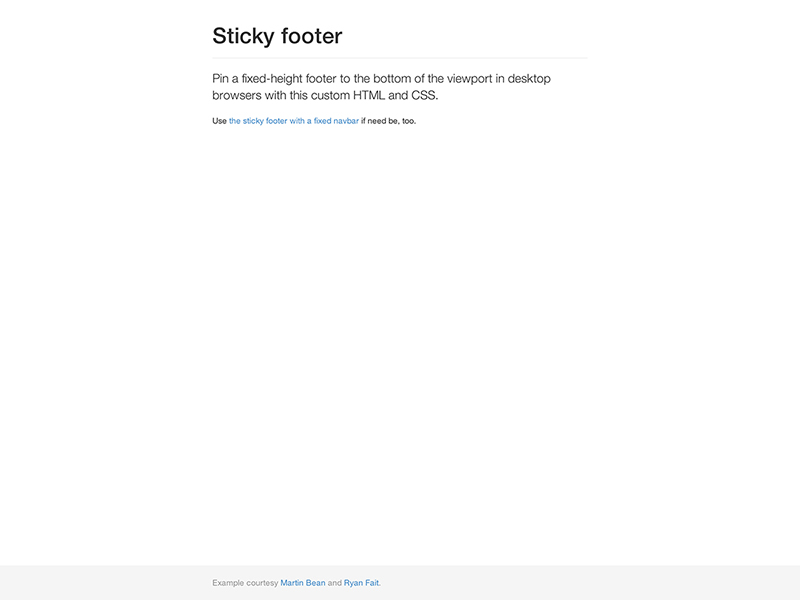
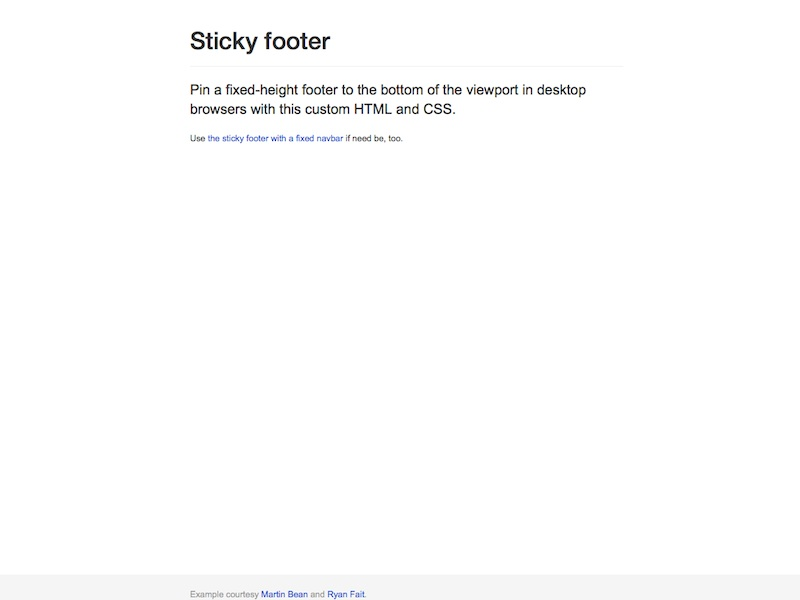
update the sticky footer example to support todc-bootstrap
#117

Changed region(s): [[0.2188, 0.12, 0.75, 0.24], [0.2188, 0.96, 0.4688, 1.0], [0.2188, 0.03, 0.4375, 0.09]]

diff --git a/examples/sticky-footer/index.html b/examples/sticky-footer/index.html
@@ -8,10 +8,13 @@
     <meta name="author" content="">
     <link rel="shortcut icon" href="../../docs-assets/ico/favicon.png">
 
-    <title>Sticky Footer Template for Bootstrap</title>
+    <title>Sticky Footer Template for TODC Bootstrap</title>
 
     <!-- Bootstrap core CSS -->
     <link href="../../dist/css/bootstrap.css" rel="stylesheet">
+
+    <!-- TODC Bootstrap core CSS -->
+    <link href="../../dist/css/todc-bootstrap.css" rel="stylesheet">
 
     <!-- Custom styles for this template -->
     <link href="sticky-footer.css" rel="stylesheet">
